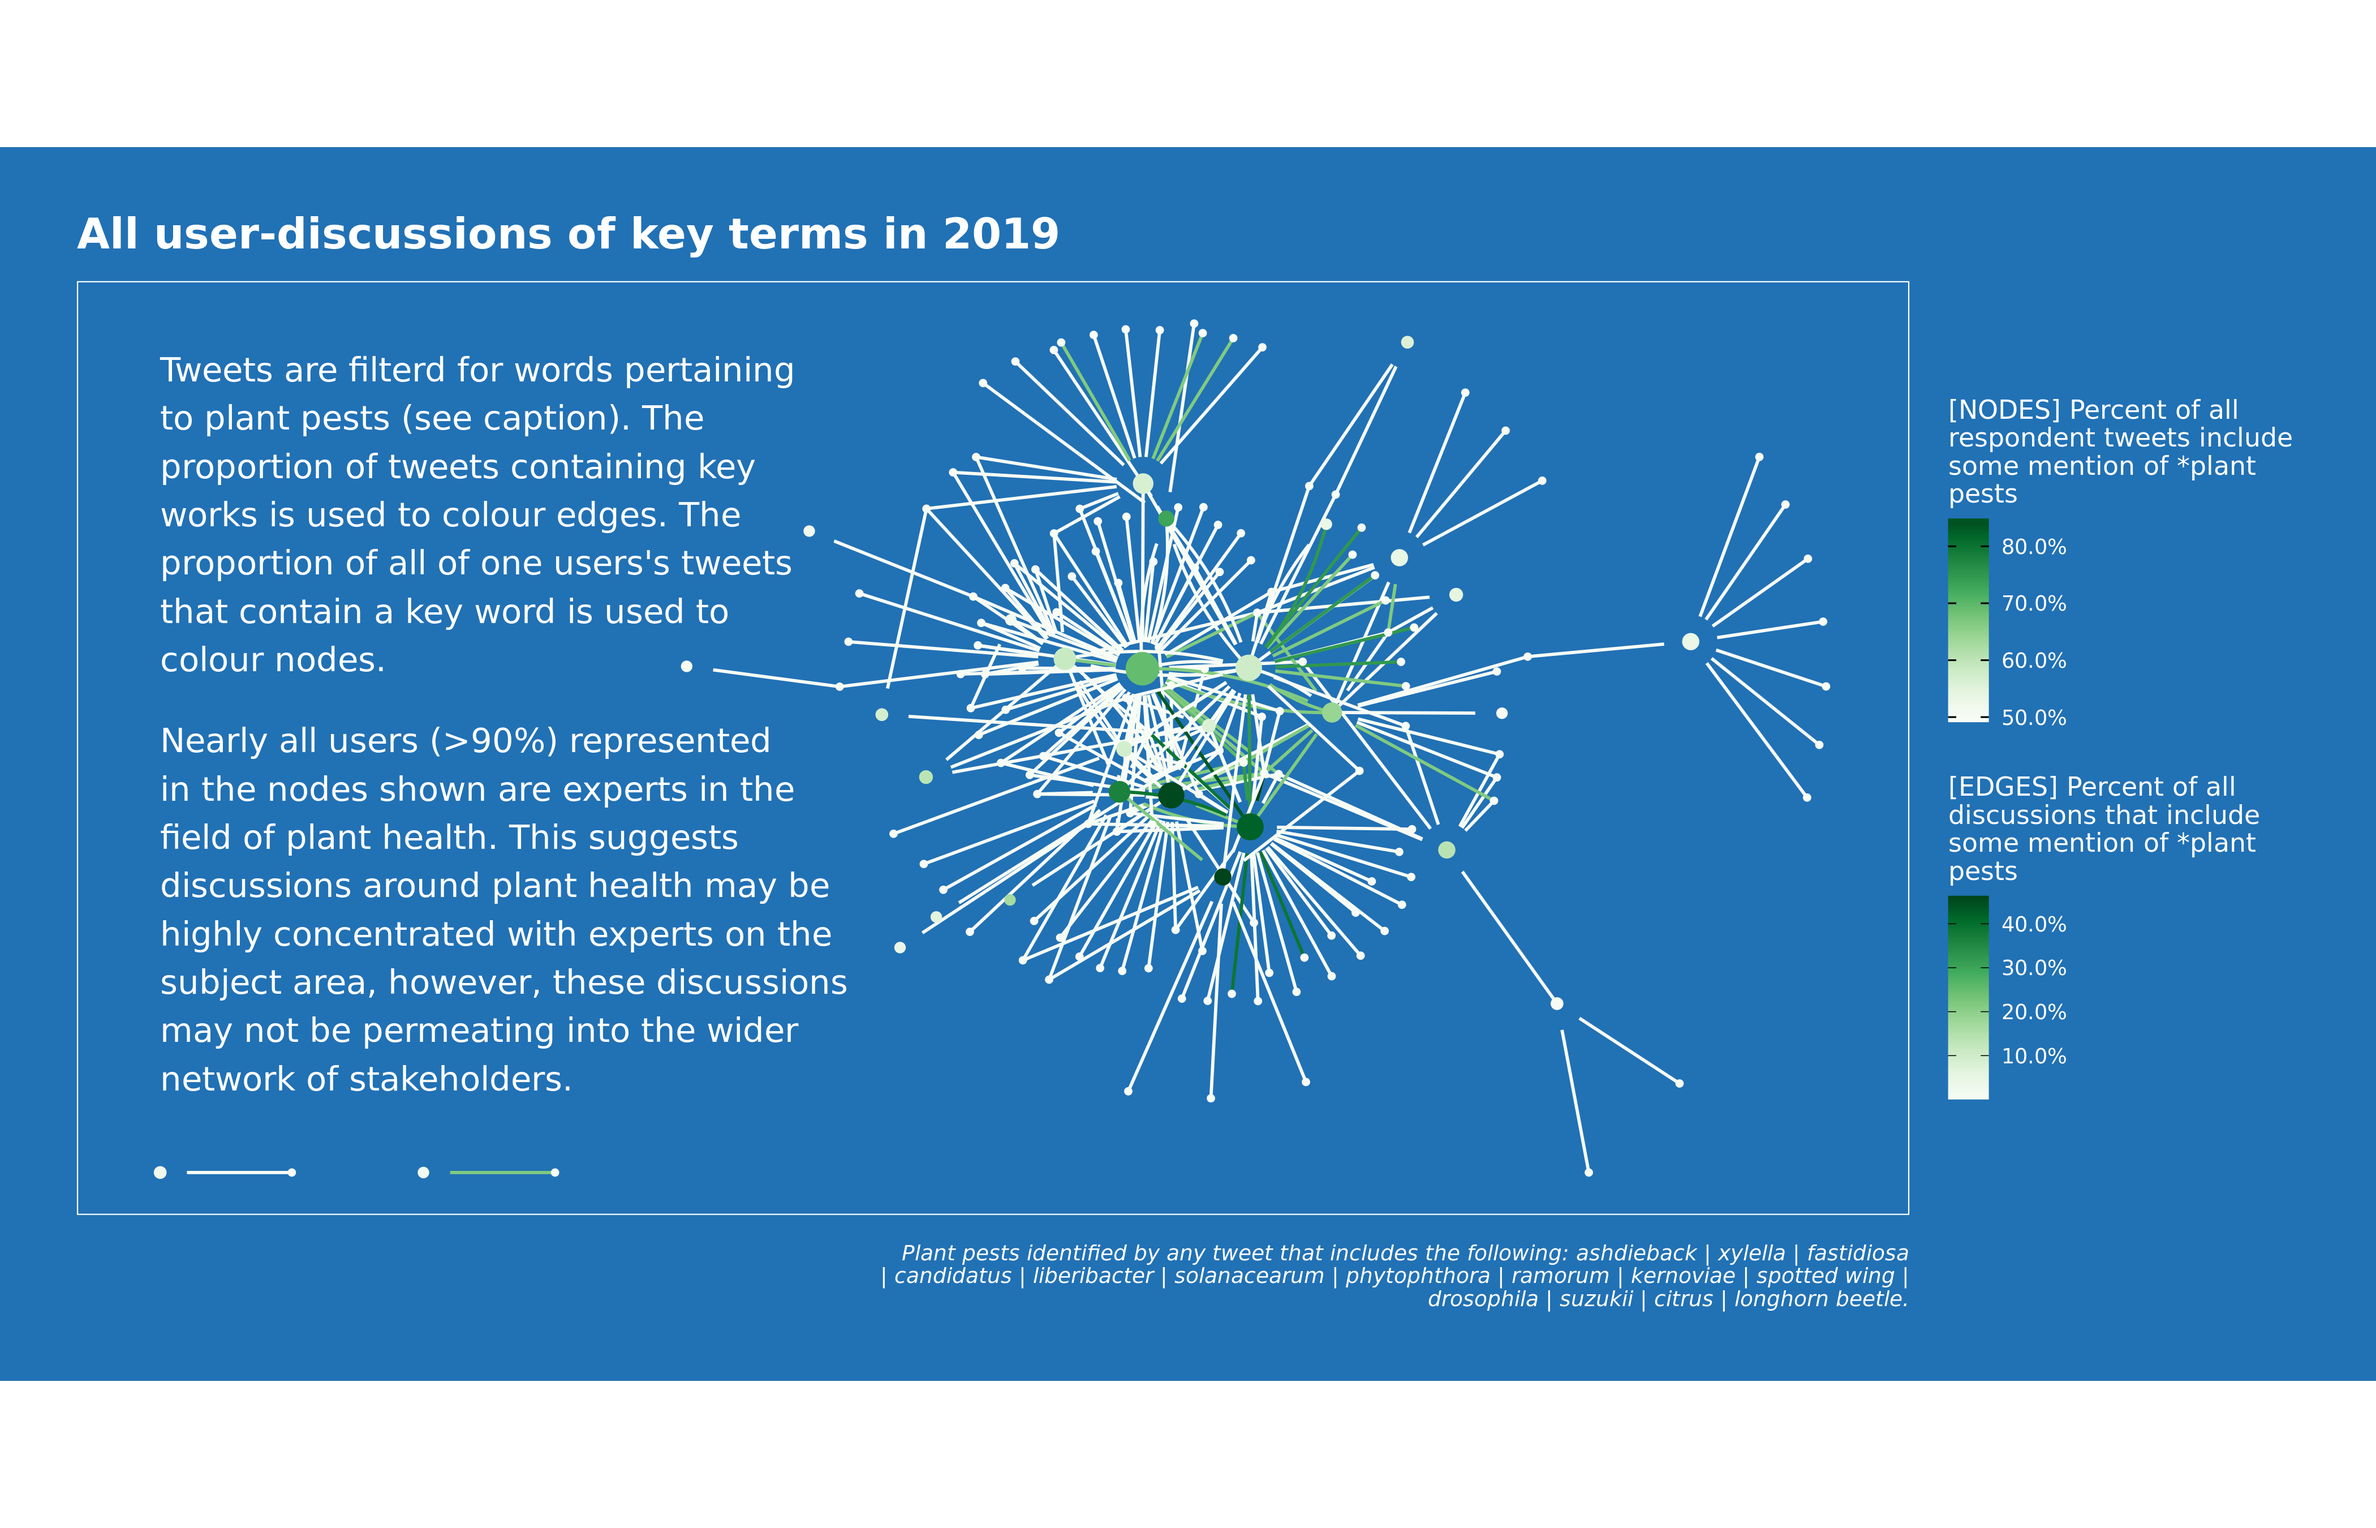
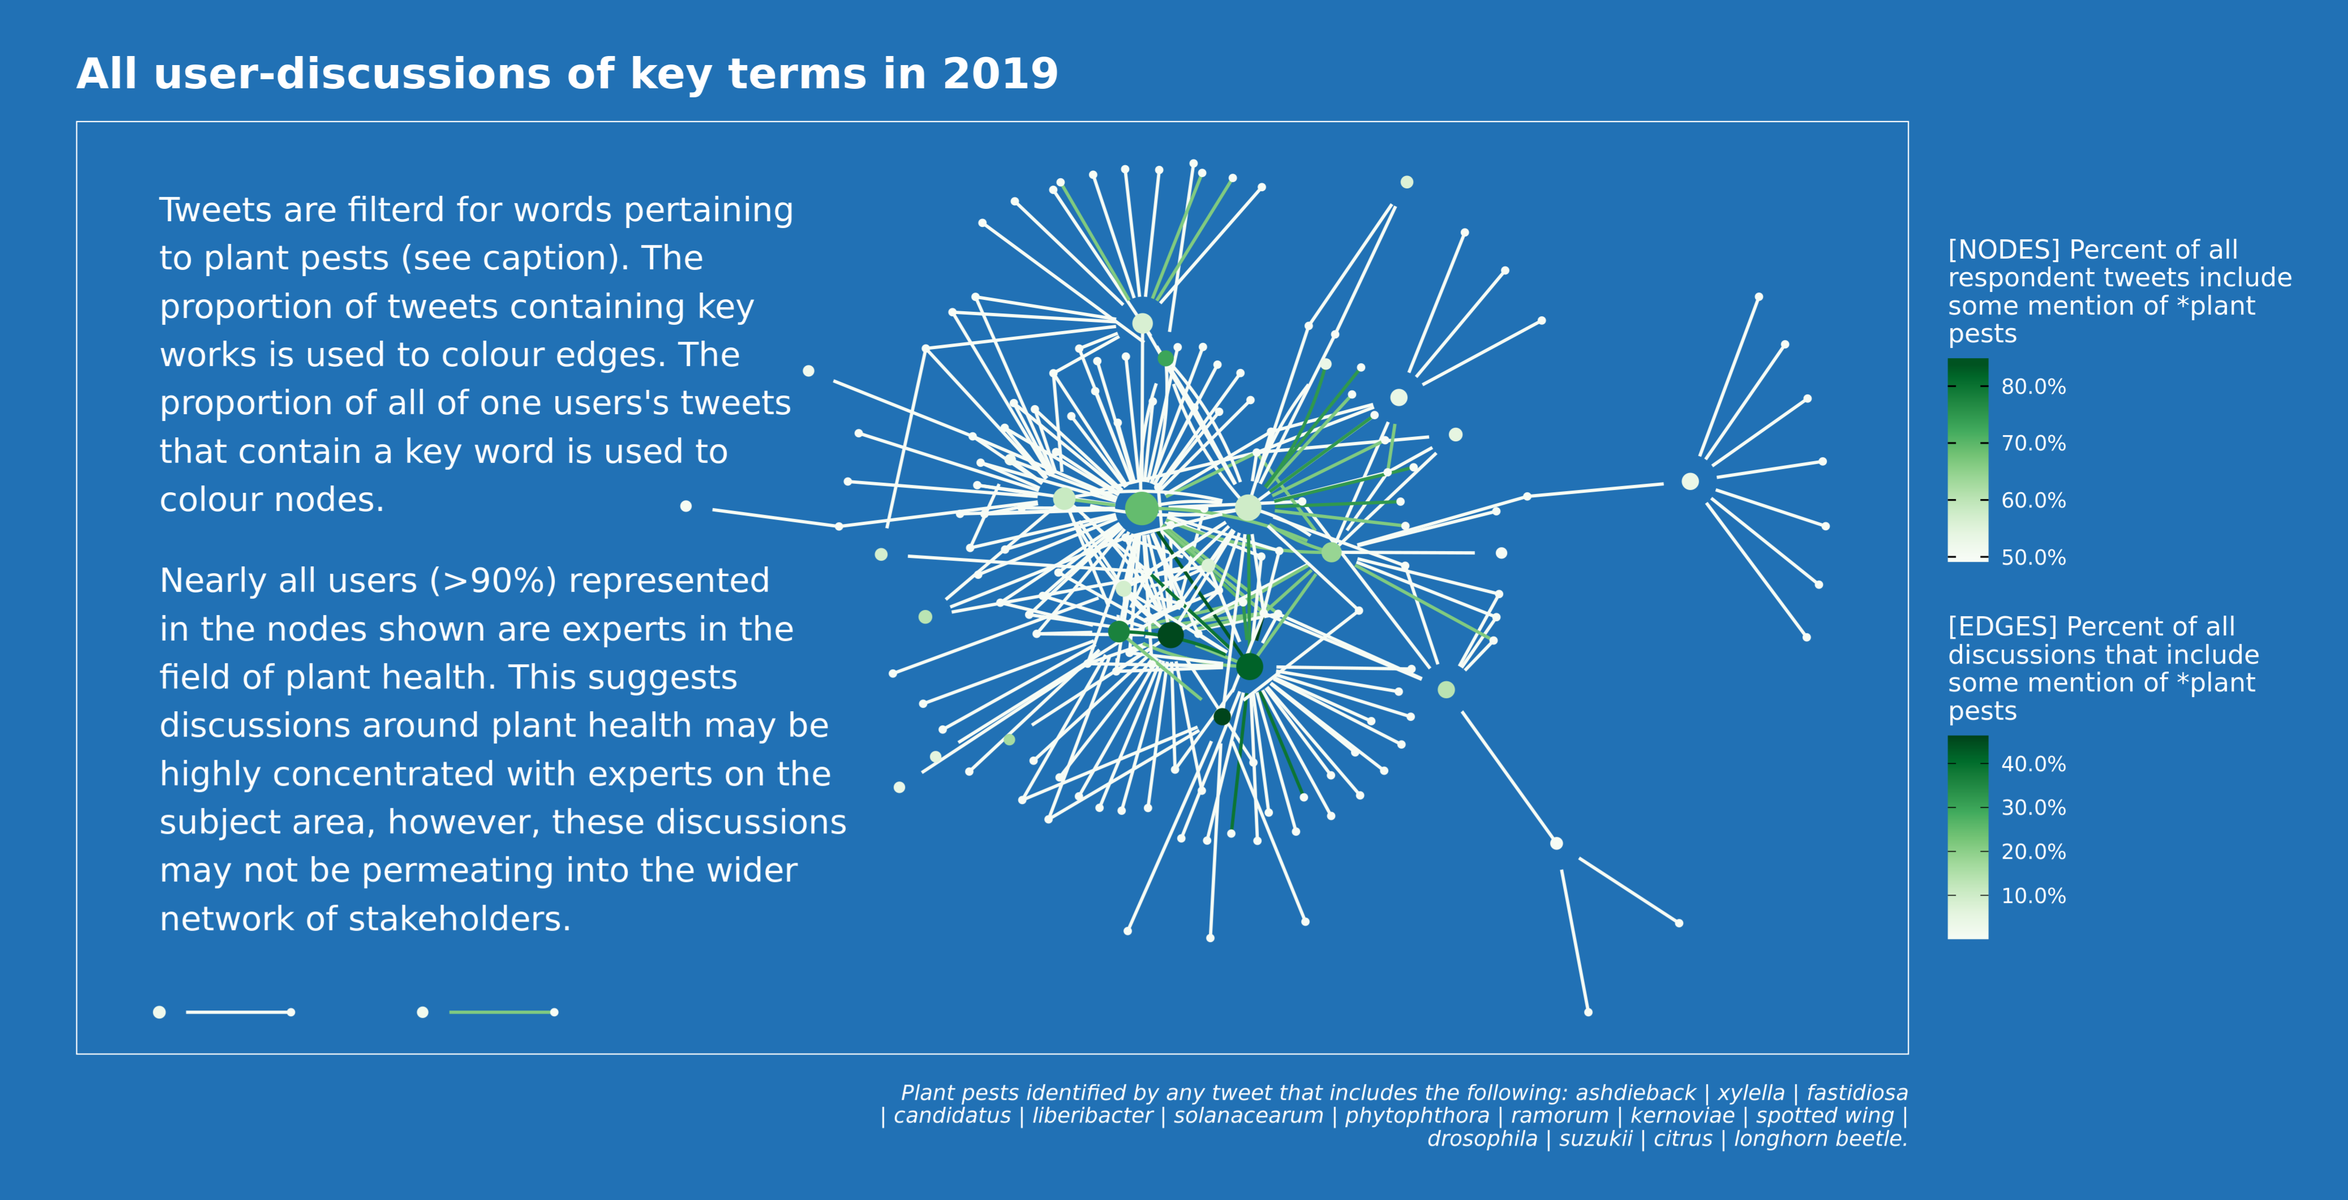
Cropped the crops talk image.

diff --git a/public/talk/example/index.html b/public/talk/example/index.html
@@ -745,9 +745,9 @@
 </div>
 
 
-<div class="article-header article-container featured-image-wrapper mt-4 mb-4" style="max-width: 720px; max-height: 463px;">
+<div class="article-header article-container featured-image-wrapper mt-4 mb-4" style="max-width: 720px; max-height: 368px;">
   <div style="position: relative">
-    <img src="/talk/example/featured_hu3e9231451f12d37cc2a27031cbce249c_947035_720x0_resize_lanczos_2.png" alt="" class="featured-image">
+    <img src="/talk/example/featured_hu8f6ca9eea1c59534902f5d453b8b5834_1573340_720x0_resize_lanczos_2.png" alt="" class="featured-image">
     
   </div>
 </div>

diff --git a/public/index.html b/public/index.html
@@ -1438,7 +1438,7 @@
     
     
     <a href="/talk/example/" >
-      <img src="/talk/example/featured_hu3e9231451f12d37cc2a27031cbce249c_947035_150x0_resize_lanczos_2.png" alt="">
+      <img src="/talk/example/featured_hu8f6ca9eea1c59534902f5d453b8b5834_1573340_150x0_resize_lanczos_2.png" alt="">
     </a>
     
   </div>

diff --git a/public/talk/index.html b/public/talk/index.html
@@ -716,7 +716,7 @@
     
     
     <a href="/talk/example/" >
-      <img src="/talk/example/featured_hu3e9231451f12d37cc2a27031cbce249c_947035_150x0_resize_lanczos_2.png" alt="">
+      <img src="/talk/example/featured_hu8f6ca9eea1c59534902f5d453b8b5834_1573340_150x0_resize_lanczos_2.png" alt="">
     </a>
     
   </div>
